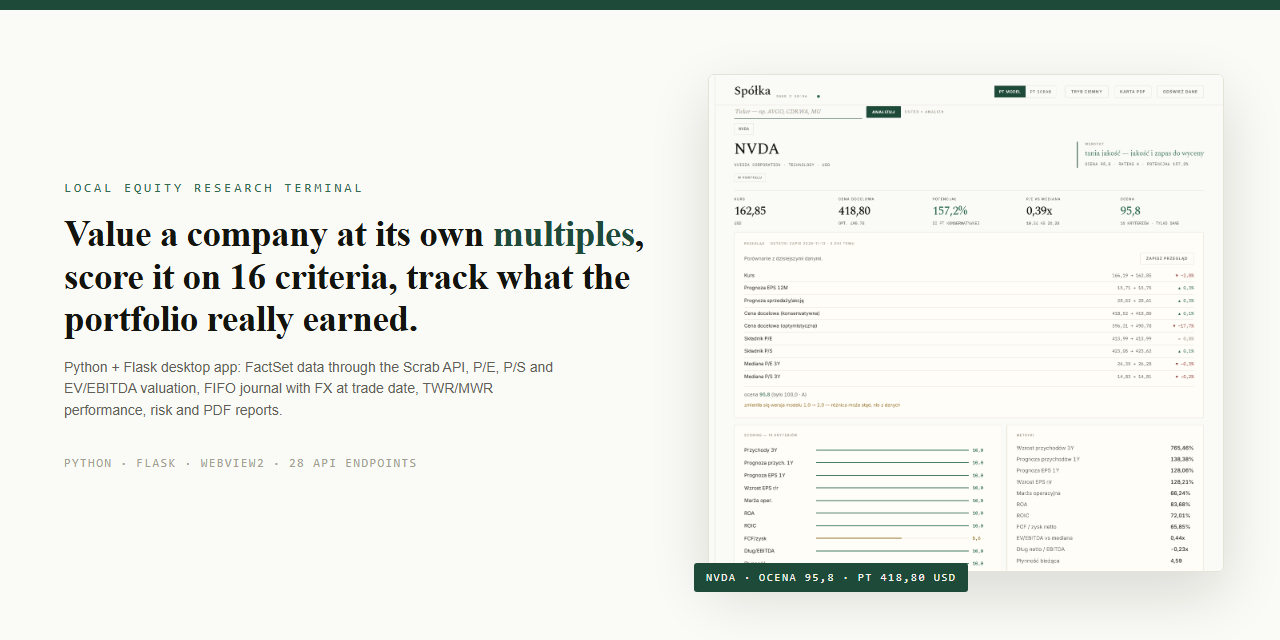
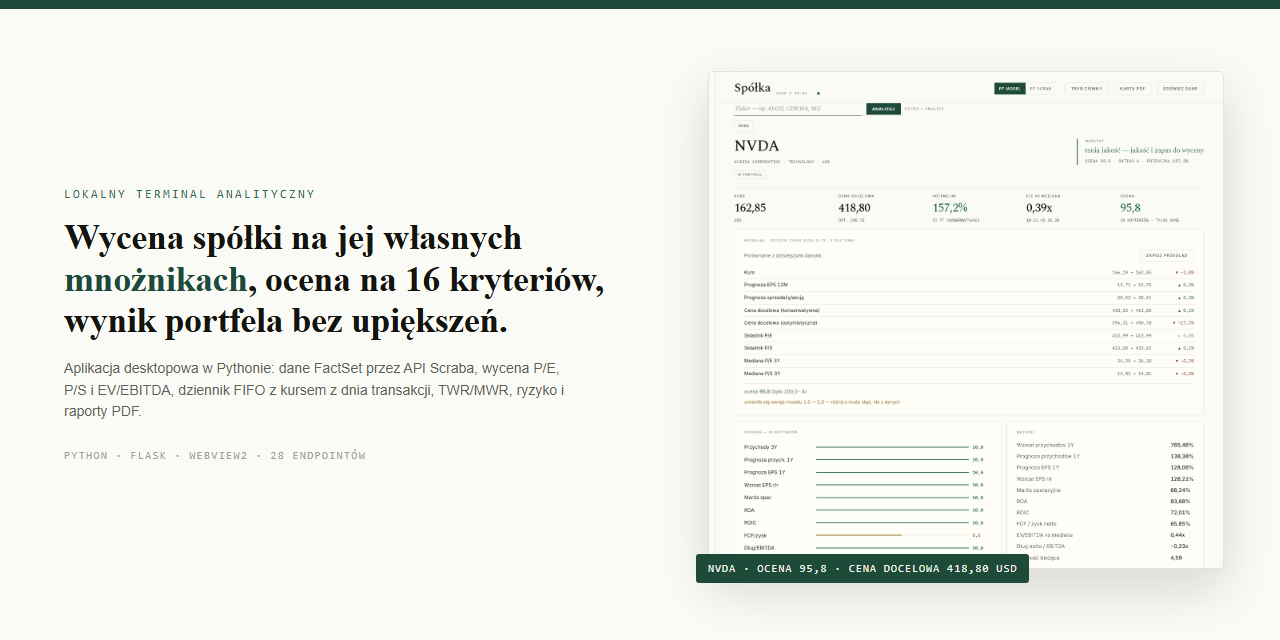
Polish copy for social preview

diff --git a/assets/social.html b/assets/social.html
@@ -1,31 +1,33 @@
 <!doctype html><html><head><meta charset="utf-8"><style>
-@font-face{font-family:Spectral;src:url(fonts/Spectral-600-latin.woff2) format('woff2');font-weight:600}
-@font-face{font-family:Spectral;src:url(fonts/Spectral-400-latin.woff2) format('woff2');font-weight:400}
-@font-face{font-family:Inter;src:url(fonts/Inter-400-latin.woff2) format('woff2');font-weight:400}
-@font-face{font-family:Plex;src:url(fonts/IBMPlexMono-500-latin.woff2) format('woff2');font-weight:500}
+@font-face{font-family:Spectral;src:url(fonts/Spectral-600-latin.woff2) format('woff2');font-weight:600;unicode-range:U+0000-00FF}
+@font-face{font-family:Spectral;src:url(fonts/Spectral-600-latin-ext.woff2) format('woff2');font-weight:600;unicode-range:U+0100-02AF}
+@font-face{font-family:Inter;src:url(fonts/Inter-400-latin.woff2) format('woff2');font-weight:400;unicode-range:U+0000-00FF}
+@font-face{font-family:Inter;src:url(fonts/Inter-400-latin-ext.woff2) format('woff2');font-weight:400;unicode-range:U+0100-02AF}
+@font-face{font-family:Plex;src:url(fonts/IBMPlexMono-500-latin.woff2) format('woff2');font-weight:500;unicode-range:U+0000-00FF}
+@font-face{font-family:Plex;src:url(fonts/IBMPlexMono-500-latin-ext.woff2) format('woff2');font-weight:500;unicode-range:U+0100-02AF}
 *{margin:0;box-sizing:border-box}
 body{width:1280px;height:640px;background:#FAFAF6;color:#14140F;font-family:Inter,sans-serif;
   display:grid;grid-template-columns:600px 1fr;align-items:center;padding:52px 56px 52px 64px;gap:44px;
-  border-top:10px solid #1E4A3A}
-.kicker{font-family:Plex,monospace;font-size:13px;letter-spacing:.22em;color:#2F6B4F;margin-bottom:18px}
-h1{font-family:Spectral,serif;font-weight:600;font-size:37px;line-height:1.15;letter-spacing:-.012em}
+  border-top:9px solid #1E4A3A}
+.kicker{font-family:Plex,monospace;font-size:12px;letter-spacing:.2em;color:#2F6B4F;margin-bottom:16px}
+h1{font-family:Spectral,serif;font-weight:600;font-size:36px;line-height:1.16;letter-spacing:-.012em}
 h1 em{font-style:normal;color:#1E4A3A}
-p{margin-top:16px;font-size:14px;line-height:1.55;color:#5F5F58;max-width:510px}
-.meta{margin-top:34px;font-family:Plex,monospace;font-size:12px;letter-spacing:.12em;color:#A39E90}
-.shot{position:relative}
-.shot img{width:100%;border:1px solid #E5E2D7;border-radius:6px;box-shadow:0 22px 60px rgba(20,20,15,.14)}
-.tag{position:absolute;left:-14px;bottom:-16px;background:#1E4A3A;color:#F6F4EC;font-family:Plex,monospace;
-  font-size:11px;letter-spacing:.14em;padding:8px 12px;border-radius:3px}
+p{margin-top:16px;font-size:14px;line-height:1.55;color:#5F5F58;max-width:515px}
+.meta{margin-top:26px;font-family:Plex,monospace;font-size:11px;letter-spacing:.12em;color:#A39E90}
+.shot{position:relative;padding-bottom:6px}
+.shot img{width:100%;border:1px solid #E5E2D7;border-radius:5px;box-shadow:0 20px 50px rgba(20,20,15,.15)}
+.tag{position:absolute;left:-12px;bottom:-4px;background:#1E4A3A;color:#F6F4EC;font-family:Plex,monospace;
+  font-size:10.5px;letter-spacing:.12em;padding:8px 12px;border-radius:3px}
 </style></head><body>
 <div>
-  <div class="kicker">LOCAL EQUITY RESEARCH TERMINAL</div>
-  <h1>Value a company at its own <em>multiples</em>, score it on 16 criteria, track what the portfolio really earned.</h1>
-  <p>Python + Flask desktop app: FactSet data through the Scrab API, P/E, P/S and EV/EBITDA
-     valuation, FIFO journal with FX at trade date, TWR/MWR performance, risk and PDF reports.</p>
-  <div class="meta">PYTHON · FLASK · WEBVIEW2 · 28 API ENDPOINTS</div>
+  <div class="kicker">LOKALNY TERMINAL ANALITYCZNY</div>
+  <h1>Wycena spółki na jej własnych <em>mnożnikach</em>, ocena na 16 kryteriów, wynik portfela bez upiększeń.</h1>
+  <p>Aplikacja desktopowa w Pythonie: dane FactSet przez API Scraba, wycena P/E, P/S i EV/EBITDA,
+     dziennik FIFO z kursem z dnia transakcji, TWR/MWR, ryzyko i raporty PDF.</p>
+  <div class="meta">PYTHON · FLASK · WEBVIEW2 · 28 ENDPOINTÓW</div>
 </div>
 <div class="shot">
   <img src="social-shot.png">
-  <div class="tag">NVDA · OCENA 95,8 · PT 418,80 USD</div>
+  <div class="tag">NVDA · OCENA 95,8 · CENA DOCELOWA 418,80 USD</div>
 </div>
 </body></html>
